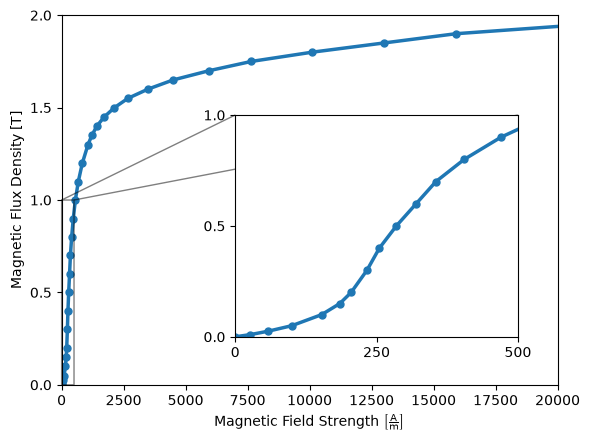
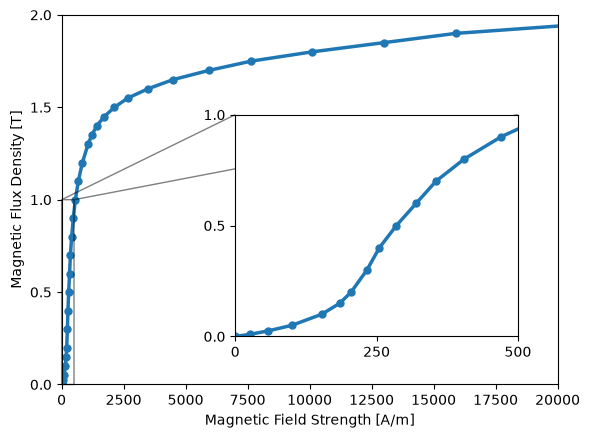
Polish docstrings, captions and comments after the final review

diff --git a/casekit/paraview_scene.py b/casekit/paraview_scene.py
@@ -60,7 +60,8 @@ def blocks(source, names: Sequence[str]):
 
 
 def show(source, view, color: Optional[Sequence[float]] = None, edges: bool = False):
-    """Show `source` as a lit surface, in a solid `color` or (without) colored later."""
+    """Show `source` as a lit surface, in a solid `color` or, without one, to be colored by
+    color_by."""
     display = pvs.Show(source, view)
     display.Representation = "Surface With Edges" if edges else "Surface"
     display.EdgeColor = [0.0, 0.0, 0.0]
@@ -214,7 +215,7 @@ def scene(view):
 
 
 def save(view, path: Path, crop: bool = True):
-    """Render `view` to `path` on white and crop the white margins."""
+    """Render `view` to `path` on white and, with `crop`, crop the white margins."""
     Path(path).parent.mkdir(parents=True, exist_ok=True)
     pvs.Render(view)
     pvs.SaveScreenshot(str(path), view, OverrideColorPalette="WhiteBackground")

diff --git a/Electromagnetics/Lubin_2015_Axial_Flux_Eddy_Current_Brake/case.py b/Electromagnetics/Lubin_2015_Axial_Flux_Eddy_Current_Brake/case.py
@@ -19,12 +19,12 @@ class Lubin2015EddyCurrentBrake(ValidationCase):
     # 2 p = 10 sector magnets (grade N40) on the magnet-side back iron
     number_of_magnets = 10
 
-    # Slip speeds [rpm], each for 20 time steps before the torque is evaluated.
+    # Slip speeds [rpm], each for steps_per_rpm time steps before the torque is evaluated.
     rpms = [500, 1000, 2000]
     steps_per_rpm = 20
 
     # Export the eddy currents after every time step for the animation of create_scene.py; a
-    # separate run, since the export of all 60 steps takes about 1 GB.
+    # separate run, since the export of all steps takes about 1 GB.
     output_for_animation = False
 
     def build_geometry(self):

diff --git a/Electromagnetics/Compumag-Team24-Locked-Rotor/data/plot_bh_curve.py b/Electromagnetics/Compumag-Team24-Locked-Rotor/data/plot_bh_curve.py
@@ -1,8 +1,8 @@
 """Plot the B-H curve of tables/Table_1_BH_curve.csv and extend it to low fields.
 
-Below the first measured point the curve is replaced by the modified Froehlich formula fitted to
-the first four points; the result is written to tables/Updated_BH_curve.csv, and both curves are
-plotted into tables/Table_1_BH_curve.png and tables/Updated_BH_curve.png.
+Below the first measured point the curve is replaced by the modified Fröhlich formula fitted to
+the first four points; the result is written to tables/Updated_BH_curve.csv. The original curve is
+plotted into tables/Table_1_BH_curve.png, both curves into tables/Updated_BH_curve.png.
 """
 
 from pathlib import Path

diff --git a/Electromagnetics/Compumag-Team7-Asymmetrical-Conductor-with-a-Hole/create_scene.py b/Electromagnetics/Compumag-Team7-Asymmetrical-Conductor-with-a-Hole/create_scene.py
@@ -1,8 +1,8 @@
 """Render results/Team7_Animation.gif from the output of case.py.
 
-Run with `pvpython create_scene.py` after the case (requires `ffmpeg`). The frames show the eddy
-current density J(t) = J_r cos(wt) - J_i sin(wt) at 50 Hz over one period, next to the coil
-current and B_z along A1-B1 at the same time.
+Run with `pvpython create_scene.py` after the case (requires `ffmpeg`). The frames show the current
+density J(t) = J_r cos(wt) - J_i sin(wt) in the coil and the plate at 50 Hz over one period, next
+to the coil current and B_z along A1-B1 at the same time.
 """
 
 import math

diff --git a/Electromagnetics/Compumag-Team20-3D-Static-Force-Problem/data/plot_bh_curve.py b/Electromagnetics/Compumag-Team20-3D-Static-Force-Problem/data/plot_bh_curve.py
@@ -14,13 +14,13 @@ H = data[:, 1]
 fig, ax = plt.subplots()
 ax.plot(H, B, "o-", linewidth=2.5, markersize=5.0)
 
-ax.set_xlabel("Magnetic Field Strength $\\left[ \\frac{\\rm{A}}{\\rm{m}} \\right]$")
+ax.set_xlabel("Magnetic Field Strength [A/m]")
 ax.set_ylabel("Magnetic Flux Density [T]")
 ax.set_xlim((0, 20000))
 ax.set_ylim((0, 2.0))
 ax.set_yticks([0.0, 0.5, 1.0, 1.5, 2.0])
 
-axins = ax.inset_axes([0.35, 0.13, 0.57, 0.6], xlim=(0, 1000), ylim=(0, 1.0))
+axins = ax.inset_axes([0.35, 0.13, 0.57, 0.6])
 axins.set_xlim((0, 500))
 axins.set_ylim((0, 1.0))
 axins.set_xticks([0, 250, 500])

diff --git a/casekit/netgen_image.py b/casekit/netgen_image.py
@@ -111,7 +111,7 @@ class Labels:
         x, y = center
         self.draw.ellipse([x - radius, y - radius, x + radius, y + radius], fill="black")
 
-    def math(self, position, tex: str, font_size: int = 40):
+    def formula(self, position, tex: str, font_size: int = 40):
         """Formula `tex` in matplotlib mathtext (e.g. "$B_y(t)$"), upper left at `position`."""
         import matplotlib.pyplot as plt
 

diff --git a/Electromagnetics/Compumag-Team1b-Felix-Cylinder/create_geometry_image.py b/Electromagnetics/Compumag-Team1b-Felix-Cylinder/create_geometry_image.py
@@ -23,6 +23,6 @@ labels = Labels(image)
 x, top, length = 90, 360, 200
 for dx in (0, 45, 90):
     labels.arrow((x + dx, top), (x + dx, top + length + 10), width=9, head=26, spread=0.46)
-labels.math((x - 10, top - 75), "$B_y(t)$")
+labels.formula((x - 10, top - 75), "$B_y(t)$")
 
 image.save(case_dir / "data" / "Geometry.png")

diff --git a/Electromagnetics/Biro_1993_3D_Iron_Core_Current_Driven_Conductors/create_scene.py b/Electromagnetics/Biro_1993_3D_Iron_Core_Current_Driven_Conductors/create_scene.py
@@ -11,7 +11,6 @@ from pathlib import Path
 case_dir = Path(__file__).resolve().parent
 sys.path.insert(0, str(case_dir.parents[1]))
 
-
 from casekit.images import trim_frames, write_gif
 from casekit.paraview_scene import (
     add_text,

diff --git a/Electromagnetics/Montejo-Garai_1995_Circular_Cavity_Filter/create_scene.py b/Electromagnetics/Montejo-Garai_1995_Circular_Cavity_Filter/create_scene.py
@@ -10,7 +10,6 @@ from pathlib import Path
 case_dir = Path(__file__).resolve().parent
 sys.path.insert(0, str(case_dir.parents[1]))
 
-
 from casekit.paraview_scene import (
     color_by,
     new_view,

diff --git a/Electromagnetics/Compumag-Team20-3D-Static-Force-Problem/create_scene.py b/Electromagnetics/Compumag-Team20-3D-Static-Force-Problem/create_scene.py
@@ -10,7 +10,6 @@ from pathlib import Path
 case_dir = Path(__file__).resolve().parent
 sys.path.insert(0, str(case_dir.parents[1]))
 
-
 from casekit.paraview_scene import (
     blocks,
     color_by,

diff --git a/Electromagnetics/Montejo-Garai_1995_Circular_Cavity_Filter/README.md b/Electromagnetics/Montejo-Garai_1995_Circular_Cavity_Filter/README.md
@@ -69,7 +69,7 @@ Figure 2 shows the resulting mesh.
 <img src="data/Mesh.png" alt="Mesh" width="45%">
 <br/>
 <br/>
-<em>Figure 2: The mesh created by Gmsh mesh generator.</em>
+<em>Figure 2: The mesh created by the Gmsh mesh generator.</em>
 </div>
 <br/>
 
@@ -208,7 +208,7 @@ marked by stars.
 <img src="results/S21_vs_frequency.png" alt="S21 vs frequency" width="45%">
 <br/>
 <br/>
-<em>Figure 3: Transmission spectrum (the squared magnitude of S21 parameter as a function of frequency) of the waveguide circular cavity filter.</em>
+<em>Figure 3: Transmission spectrum (the squared magnitude of the S21 parameter as a function of frequency) of the waveguide circular cavity filter.</em>
 </div>
 <br/>
 
@@ -239,7 +239,7 @@ filter at both frequencies.
 <img src="results/scene_electric_field_14GHz.png" alt="E at 14 GHz" width="45%" />
 <br/>
 <br/>
-<em>Figure 4: Magnitude of the real part of the electric field (the field at <i>ωt</i> = 0) inside the waveguide filter at frequency 12 GHz (left) and 14 GHz (right).</em>
+<em>Figure 4: Magnitude of the real part of the electric field (the field at <i>ωt</i> = 0) inside the waveguide filter at 12 GHz (left) and 14 GHz (right).</em>
 </div>
 <br/>
 

diff --git a/Electromagnetics/Compumag-Team24-Locked-Rotor/README.md b/Electromagnetics/Compumag-Team24-Locked-Rotor/README.md
@@ -105,7 +105,8 @@ air gap, offset by $`(-6.5, -1.3, -7.7)\,\mathrm{mm}`$ from the stator pole corn
 
 Run the case with `pymufem case.py`.
 
-Figure 1 is rendered from the geometry with [create_geometry_image.py](create_geometry_image.py).
+Figure 1 is rendered from `geometry.step` with the netgen viewer by
+[create_geometry_image.py](create_geometry_image.py).
 Figure 3 and the animation (Figure 5) are rendered with ParaView by
 [create_scene.py](create_scene.py) from the fields of every time step and the coil current and
 rotor torque that every run of the case writes to `VisualizationOutput/`; run
